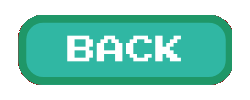
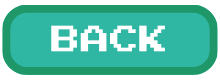
feat: on/off fullscreen

diff --git a/core/src/main/java/io/github/spaceSurvivor/Screens/OptionScreen.java b/core/src/main/java/io/github/spaceSurvivor/Screens/OptionScreen.java
@@ -1,11 +1,10 @@
 package io.github.spaceSurvivor.Screens;
 import com.badlogic.gdx.Gdx;
-import com.badlogic.gdx.graphics.Color;
 import com.badlogic.gdx.graphics.Texture;
 import com.badlogic.gdx.graphics.g2d.BitmapFont;
 import com.badlogic.gdx.graphics.g2d.SpriteBatch;
 import com.badlogic.gdx.graphics.g2d.TextureAtlas;
-import com.badlogic.gdx.graphics.g2d.freetype.FreeTypeFontGenerator;
+import com.badlogic.gdx.graphics.g2d.TextureRegion;
 import com.badlogic.gdx.scenes.scene2d.Actor;
 import com.badlogic.gdx.scenes.scene2d.InputEvent;
 import com.badlogic.gdx.scenes.scene2d.Stage;
@@ -14,11 +13,9 @@ import com.badlogic.gdx.scenes.scene2d.utils.ChangeListener;
 import com.badlogic.gdx.scenes.scene2d.utils.ClickListener;
 import com.badlogic.gdx.scenes.scene2d.utils.TextureRegionDrawable;
 import com.badlogic.gdx.utils.ScreenUtils;
-
 import com.badlogic.gdx.Screen;
 import io.github.spaceSurvivor.Main;
 import io.github.spaceSurvivor.managers.AudioManager;
-import org.w3c.dom.Text;
 
 public class OptionScreen implements Screen {
     private final Stage stage;
@@ -31,6 +28,8 @@ public class OptionScreen implements Screen {
 
     private BitmapFont MyFont;
     private Label VolumLabel;
+    private CheckBox fullScreenCheckBox;
+    private Label CheckboxLabel;
 
 
     public OptionScreen(Main game) {
@@ -39,10 +38,34 @@ public class OptionScreen implements Screen {
         this.batch = new SpriteBatch();
         backgroundOption = new Texture("Background/Option.png");
 
+        MyFont = new BitmapFont(Gdx.files.internal("fonts/MyFont.fnt"));
         this.skin = new Skin();
         TextureAtlas Atlas = new TextureAtlas(Gdx.files.internal("Skin/Star-soldier/star-soldier-ui.atlas"));
         skin.addRegions(Atlas);
         skin.load(Gdx.files.internal("Skin/Star-soldier/star-soldier-ui.json"));
+
+        //CHECKBOX
+        Texture checkOn = new Texture(Gdx.files.internal("checkbox/on.png"));
+        Texture checkOff = new Texture(Gdx.files.internal("checkbox/off.png"));
+        CheckBox.CheckBoxStyle checkBoxStyle = new CheckBox.CheckBoxStyle();
+
+        checkBoxStyle.checkboxOn = new TextureRegionDrawable(new TextureRegion(checkOn));
+        checkBoxStyle.checkboxOff = new TextureRegionDrawable(new TextureRegion(checkOff));
+        checkBoxStyle.font = MyFont;
+
+        fullScreenCheckBox = new CheckBox("", checkBoxStyle);
+
+        fullScreenCheckBox.setChecked(Gdx.graphics.isFullscreen());
+        fullScreenCheckBox.addListener(new ChangeListener() {
+            @Override
+            public void changed(ChangeEvent event, Actor actor) {
+                if (fullScreenCheckBox.isChecked()) {
+                    game.setFullScreen(); // Appel à la méthode pour activer le plein écran
+                } else {
+                    game.setWindowedMode(); // Appel à la méthode pour revenir au mode fenêtré
+                }
+            }
+        });
 
         //SLIDER
         this.audioManager = game.getAudioManager();
@@ -59,28 +82,25 @@ public class OptionScreen implements Screen {
         });
 
         //LABEL
-        MyFont = new BitmapFont(Gdx.files.internal("fonts/MyFont.fnt"));
-
         Label.LabelStyle labelStyle = new Label.LabelStyle();
         labelStyle.font = MyFont;
-
         VolumLabel = new Label("Music volume", labelStyle);
-        VolumLabel.setPosition(100, 240); // Position x, y sur l'écran
 
-
+        CheckboxLabel = new Label("Fullscreen", labelStyle);
 
 
         //BUTTON
         Texture backTexture = new Texture(Gdx.files.internal("buttons/back_up.png"));
-        //Texture backOverTexture = new Texture(Gdx.files.internal("buttons/back_over.png"));
-        //Texture backPressedTexture = new Texture(Gdx.files.internal("buttons/back_down.png"));
+        Texture backOverTexture = new Texture(Gdx.files.internal("buttons/back_over.png"));
+        Texture backPressedTexture = new Texture(Gdx.files.internal("buttons/back_down.png"));
 
         ImageButton.ImageButtonStyle backButtonStyle = new ImageButton.ImageButtonStyle();
         backButtonStyle.up = new TextureRegionDrawable(backTexture);
-        //backButtonStyle.over = new TextureRegionDrawable(backOverTexture);
-        //backButtonStyle.down = new TextureRegionDrawable(backPressedTexture);
+        backButtonStyle.over = new TextureRegionDrawable(backOverTexture);
+        backButtonStyle.down = new TextureRegionDrawable(backPressedTexture);
 
         ImageButton backButton = new ImageButton(backButtonStyle);
+
 
         backButton.addListener(new ClickListener() {
             @Override
@@ -92,14 +112,17 @@ public class OptionScreen implements Screen {
         Table table = new Table();
         table.setFillParent(true);
         table.center();
-        table.add(VolumLabel).padTop(20);
+        table.add(CheckboxLabel).padTop(250);
         table.row();
-        table.add(slider).width(400).padTop(20).padBottom(50);
+        table.add(fullScreenCheckBox).padTop(30);
         table.row();
-        table.add(backButton).padTop(20);
+        table.add(VolumLabel).padTop(50);
+        table.row();
+        table.add(slider).width(400).padTop(30);
+        table.row();
+        table.add(backButton).padTop(150);
 
         stage.addActor(table);
-        stage.setDebugAll(true);
         Gdx.input.setInputProcessor(stage);
 
     }

diff --git a/core/src/main/java/io/github/spaceSurvivor/Main.java b/core/src/main/java/io/github/spaceSurvivor/Main.java
@@ -47,12 +47,16 @@ public class Main extends Game {
     }
 
     public void setFullScreen() {
-        Graphics.DisplayMode displayMode = Gdx.graphics.getDisplayMode();
-        Gdx.graphics.setFullscreenMode(displayMode);
+        if (!Gdx.graphics.isFullscreen()) {
+            Graphics.DisplayMode currentMode = Gdx.graphics.getDisplayMode();
+            Gdx.graphics.setFullscreenMode(currentMode);
+        }
     }
 
     public void setWindowedMode() {
-        Gdx.graphics.setWindowedMode(1280, 720); // Taille de la fenêtre (par exemple 800x600)
+        if (Gdx.graphics.isFullscreen()) {
+            Gdx.graphics.setWindowedMode(1920, 1080);
+        }
     }
 
     public void MainMenuScreen() {
